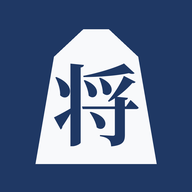
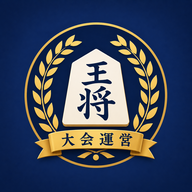
release: PWAアイコン刷新を本番反映（?v=109 / sw v109） (#709)
アイコン5点（王将×月桂樹エンブレム）＋manifest any/maskable分離＋sw PRECACHE/CACHE v109＋index ?v=109。start_urlは本番の旧 ?v=67 からbase正本（?vなし）に整合。独立L3レビュー conditional-go（#706）。

diff --git a/index.html b/index.html
@@ -65,7 +65,7 @@ th.cell-amt{text-align:right}
   <!-- アプリリンク -->
   <div class="card">
     <h2>運営ツール</h2>
-    <a class="app-link" href="shogi_v4.html?v=108">大会運営アプリを開く</a>
+    <a class="app-link" href="shogi_v4.html?v=109">大会運営アプリを開く</a>
     <p style="font-size:13px;color:#888;text-align:center">スマートフォンのブラウザで開いてください</p>
     <a class="app-link" href="docs/install_guide.html" target="_blank" rel="noopener noreferrer" style="background:#2E75B6">📱 ホーム画面に追加する方法（かんたん手順）</a>
     <!-- 運営マニュアル導線（事前リファレンス・別タブ起動 / #316 MANUAL-LINK-001） -->

diff --git a/sw.js b/sw.js
@@ -12,10 +12,11 @@
          .then(function(){return self.clients.matchAll();})
          .then(function(cs){cs.forEach(function(c){c.navigate(c.url);});}));});
 */
-var CACHE = 'shogi-tour-v108';   // ★release ごとにバージョンを上げる（?v と同期）
+var CACHE = 'shogi-tour-v109';   // ★release ごとにバージョンを上げる（?v と同期）
 var PRECACHE = [
   './', 'index.html', 'shogi_v4.html', 'manifest.webmanifest',
   'icon-192.png', 'icon-512.png', 'apple-touch-icon.png',
+  'icon-192-maskable.png', 'icon-512-maskable.png',
   'app/', 'app/index.html', 'app/auth.js'
 ];
 
